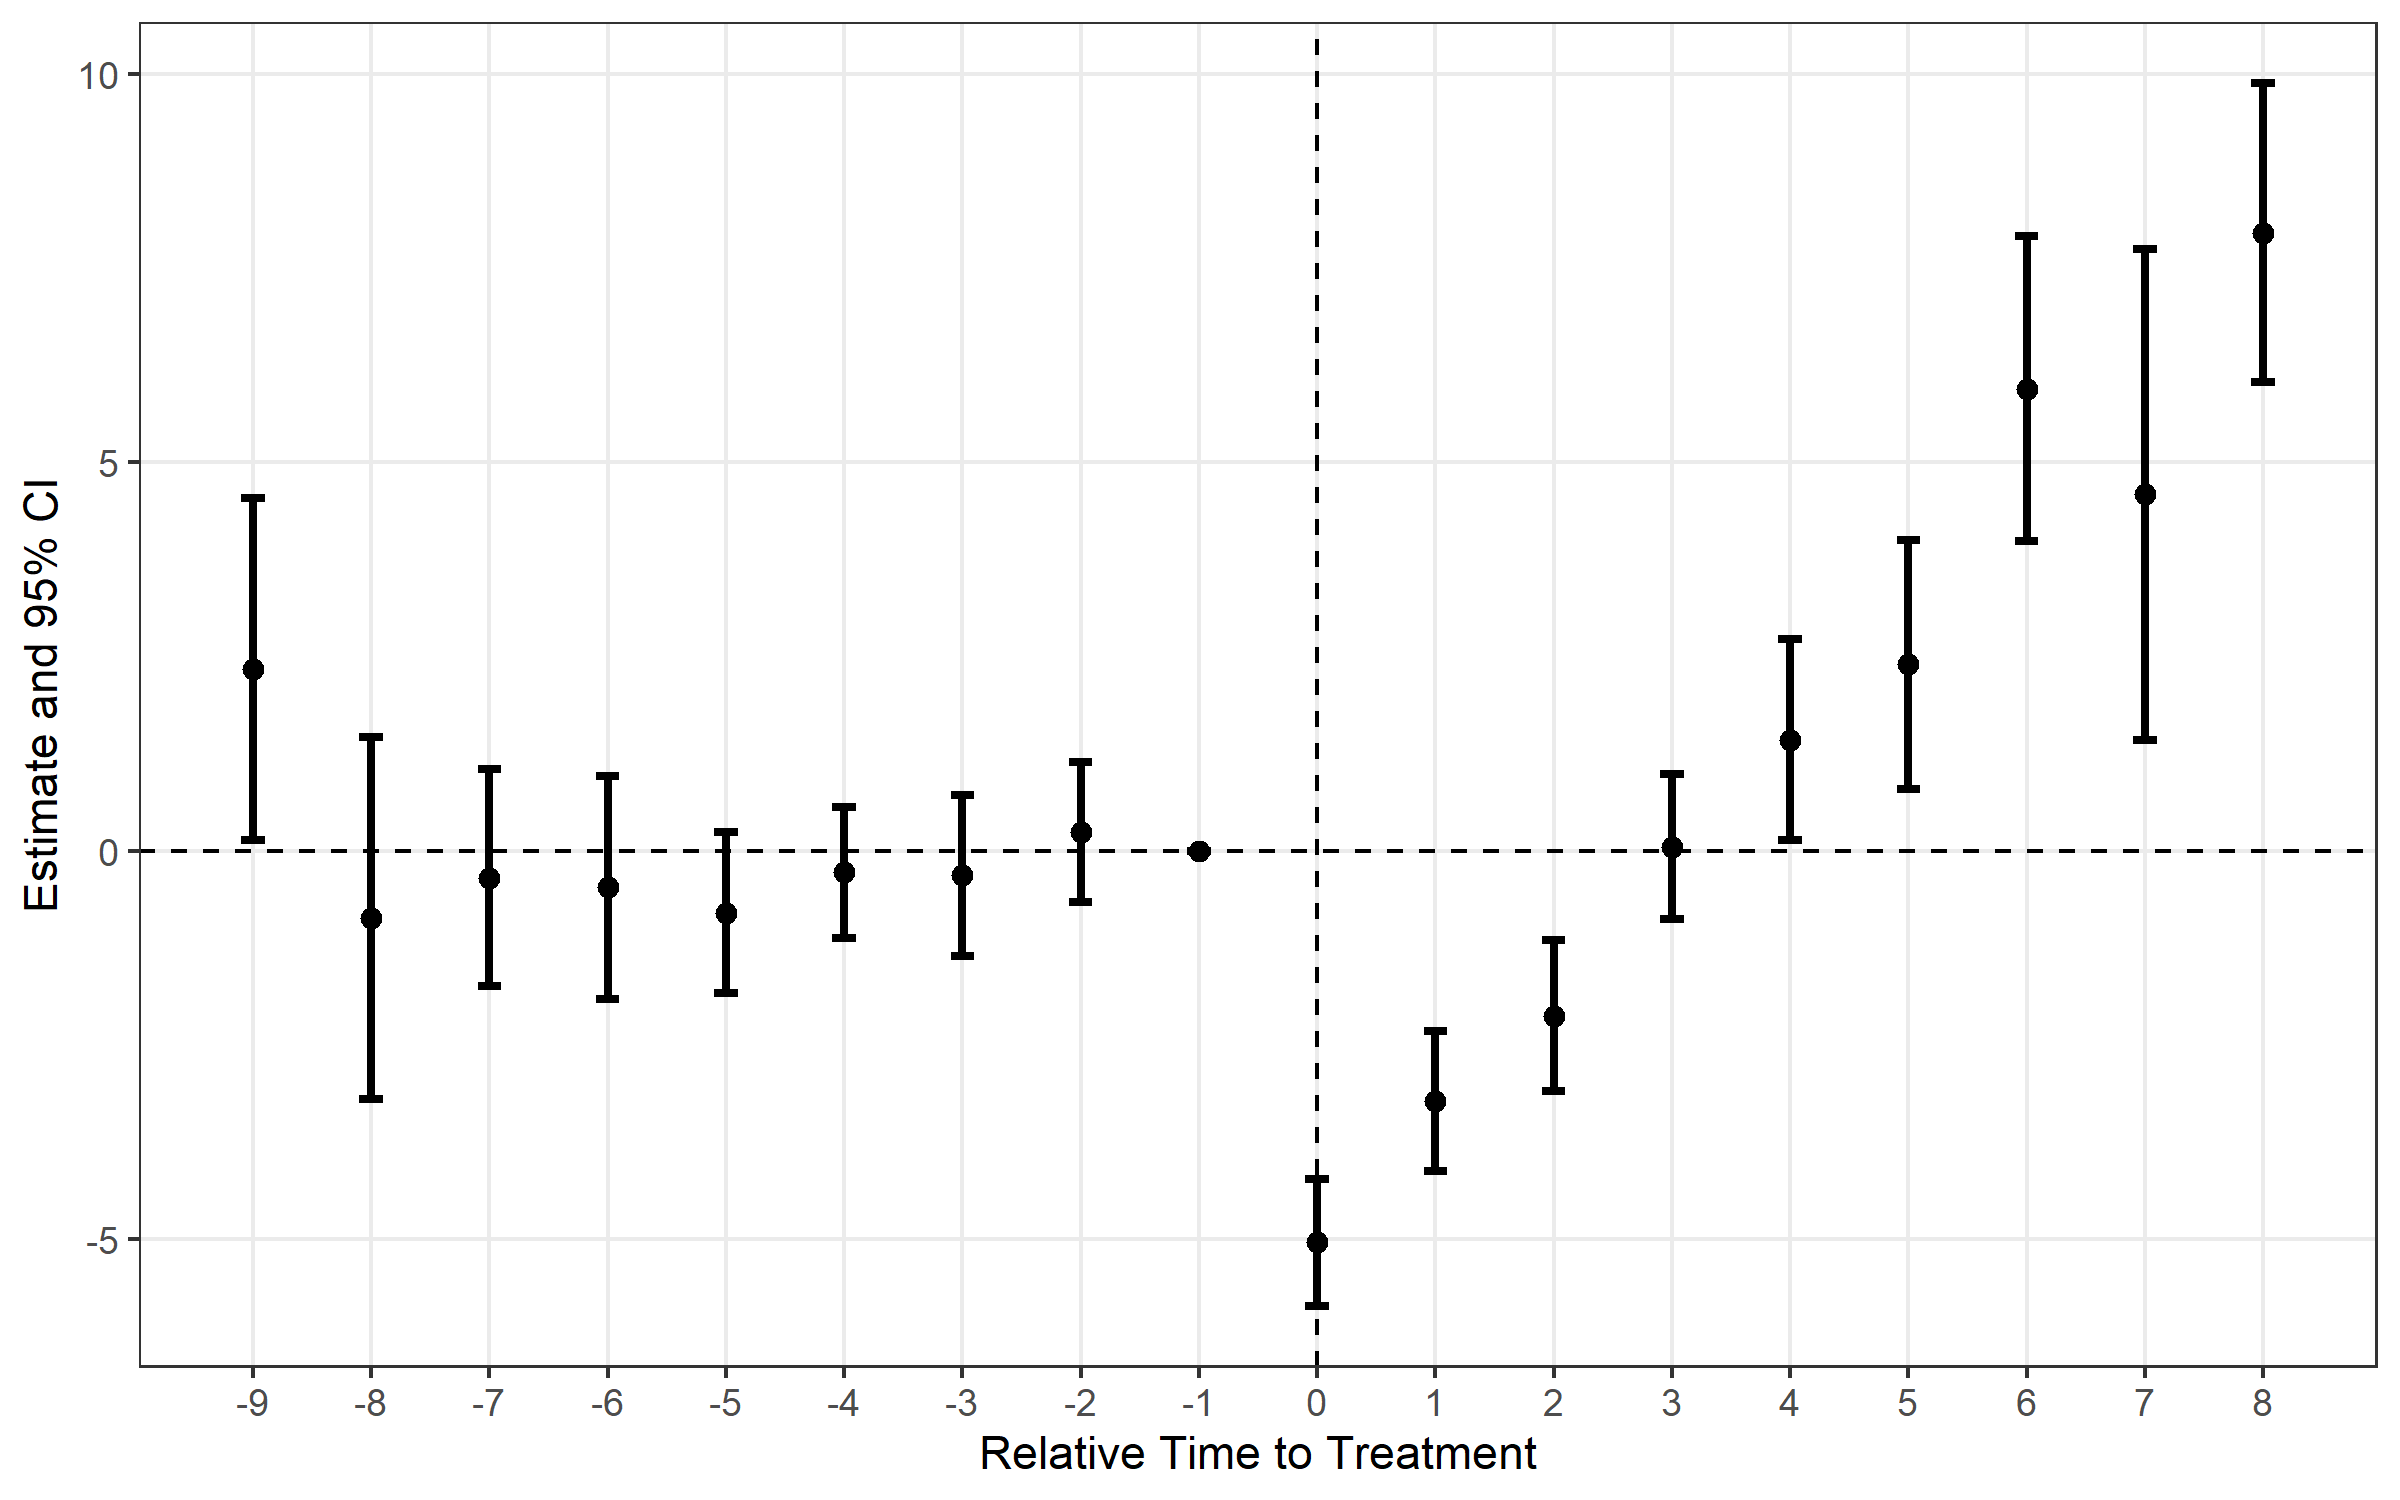
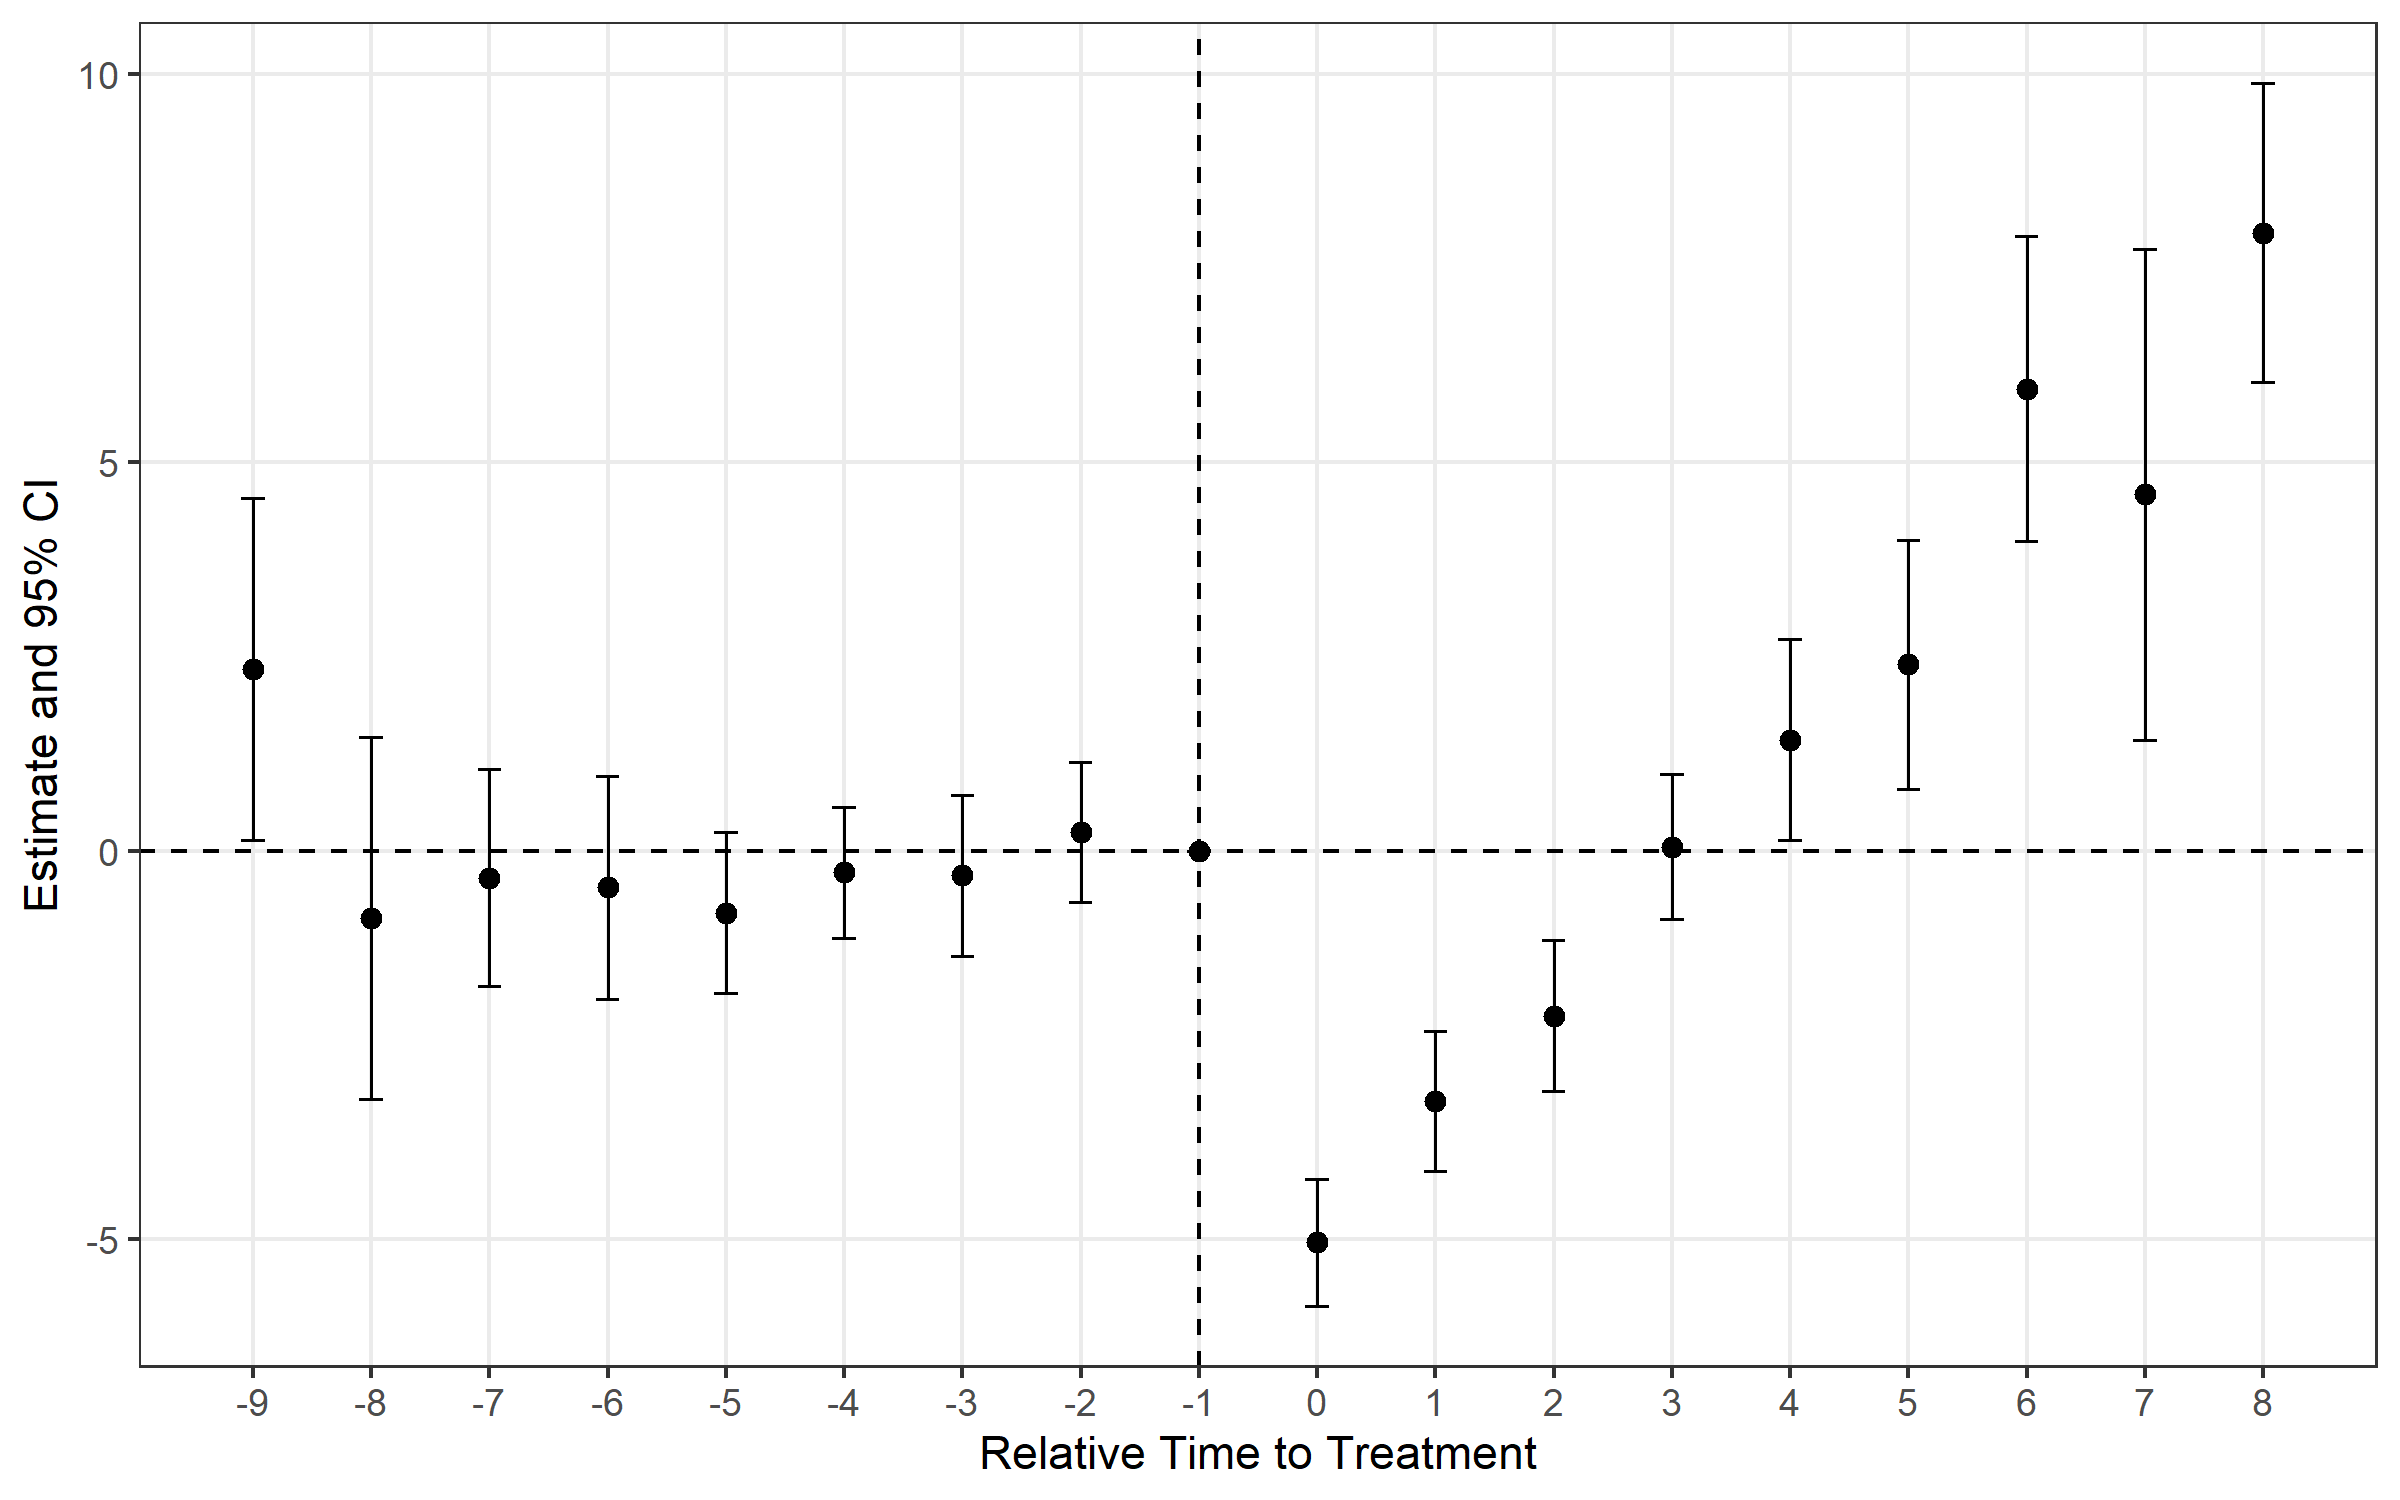
docs: note the new layer order, bar weight and reference line
README.md and its figures are regenerated from the knit.

diff --git a/NEWS.md b/NEWS.md
@@ -12,14 +12,19 @@
   palette, so passing them explicitly works exactly as before.
 - `plot.es_result(type = "errorbar")` gains `errorbar_color`, which colours
   the bars on their own; it follows `color` unless given.
+- Error bars are drawn thinner, and points are now drawn last so neither the
+  bars nor the ribbon cover them — visible as soon as the point and interval
+  colours differ.
+- The dashed vertical reference line now marks relative time -1, the last
+  period before treatment, instead of relative time 0, where the effect is
+  usually already present. `vline_val` still overrides it.
 
 ## Event-study plots
 
 - `plot()` / `autoplot()` on an `es_result` gain `time_axis`. The default
   `"relative"` keeps the event-time axis; `"calendar"` plots the original
   time values instead (e.g. `2010`, or a `Date`), labels the axis with the
-  `time` column's name, and moves the dashed reference line to the treatment
-  period. Available whenever every treated unit adopts in the same period
+  `time` column's name, and moves the dashed reference line with it. Available whenever every treated unit adopts in the same period
   (universal timing, or a single-cohort staggered design); with several
   cohorts one relative period maps to several calendar periods, so it errors
   with an explanation. `es_result` objects carry the new `ref_time`,

diff --git a/README.md b/README.md
@@ -528,8 +528,9 @@ plot(es_multi, ci_level = 0.90, theme_style = "minimal")
 `ci_level` must be one of the levels the result was estimated at.
 
 The x axis shows event time by default. With `time_axis = "calendar"` it
-shows the original time values and the dashed line moves to the treatment
-period — available for universal timing, not for staggered adoption:
+shows the original time values instead — available for universal timing, not
+for staggered adoption. The dashed line marks the last pre-treatment period
+on either axis:
 
 
 ``` r
